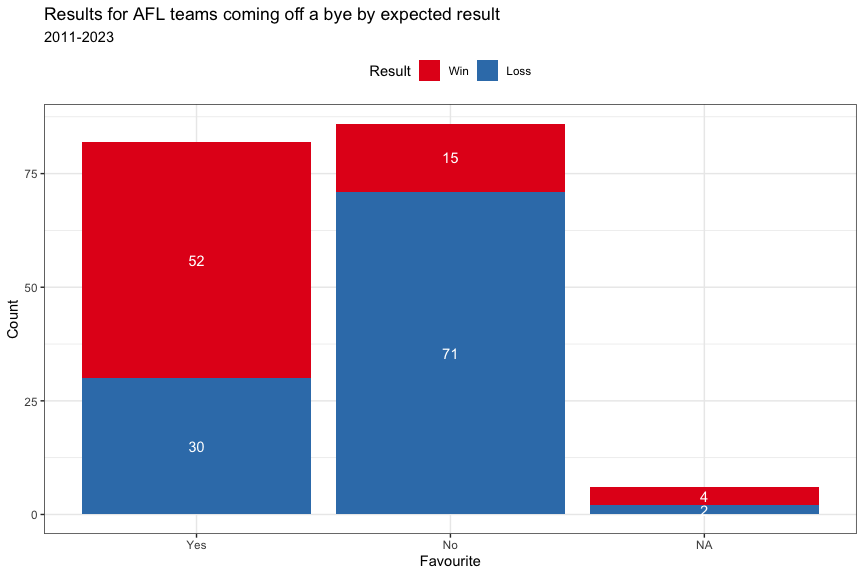
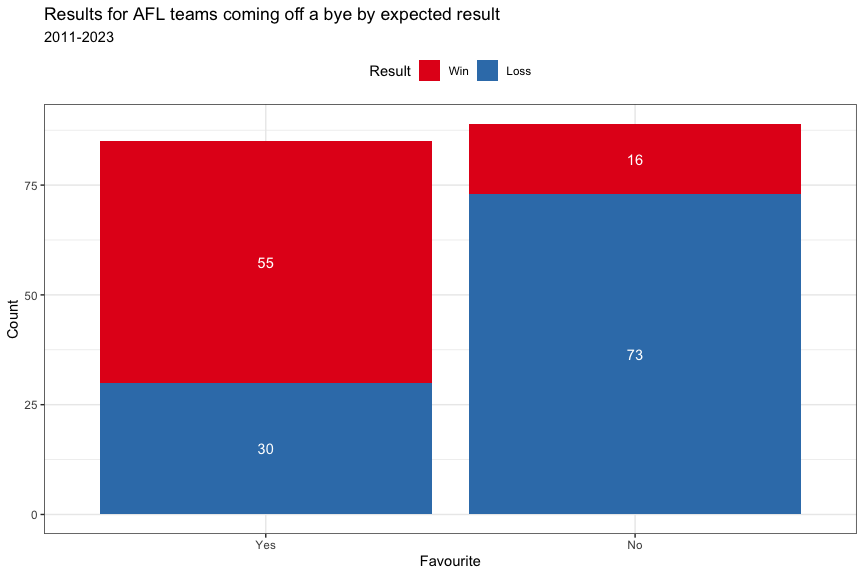
Updated with odds for R16 2023

diff --git a/code/R/Rmd/bye_scoring/post_bye_results.md b/code/R/Rmd/bye_scoring/post_bye_results.md
@@ -1,7 +1,7 @@
 AFL: post-bye results
 ================
 Neil Saunders
-2023-07-03 21:26:23.71594
+2023-07-04 11:16:30.954477
 
 - [Summary](#summary)
 - [Data](#data)
@@ -1382,8 +1382,10 @@ Fremantle
 W
 </td>
 <td style="text-align:right;">
+1.52
 </td>
 <td style="text-align:left;">
+Y
 </td>
 </tr>
 </tbody>
